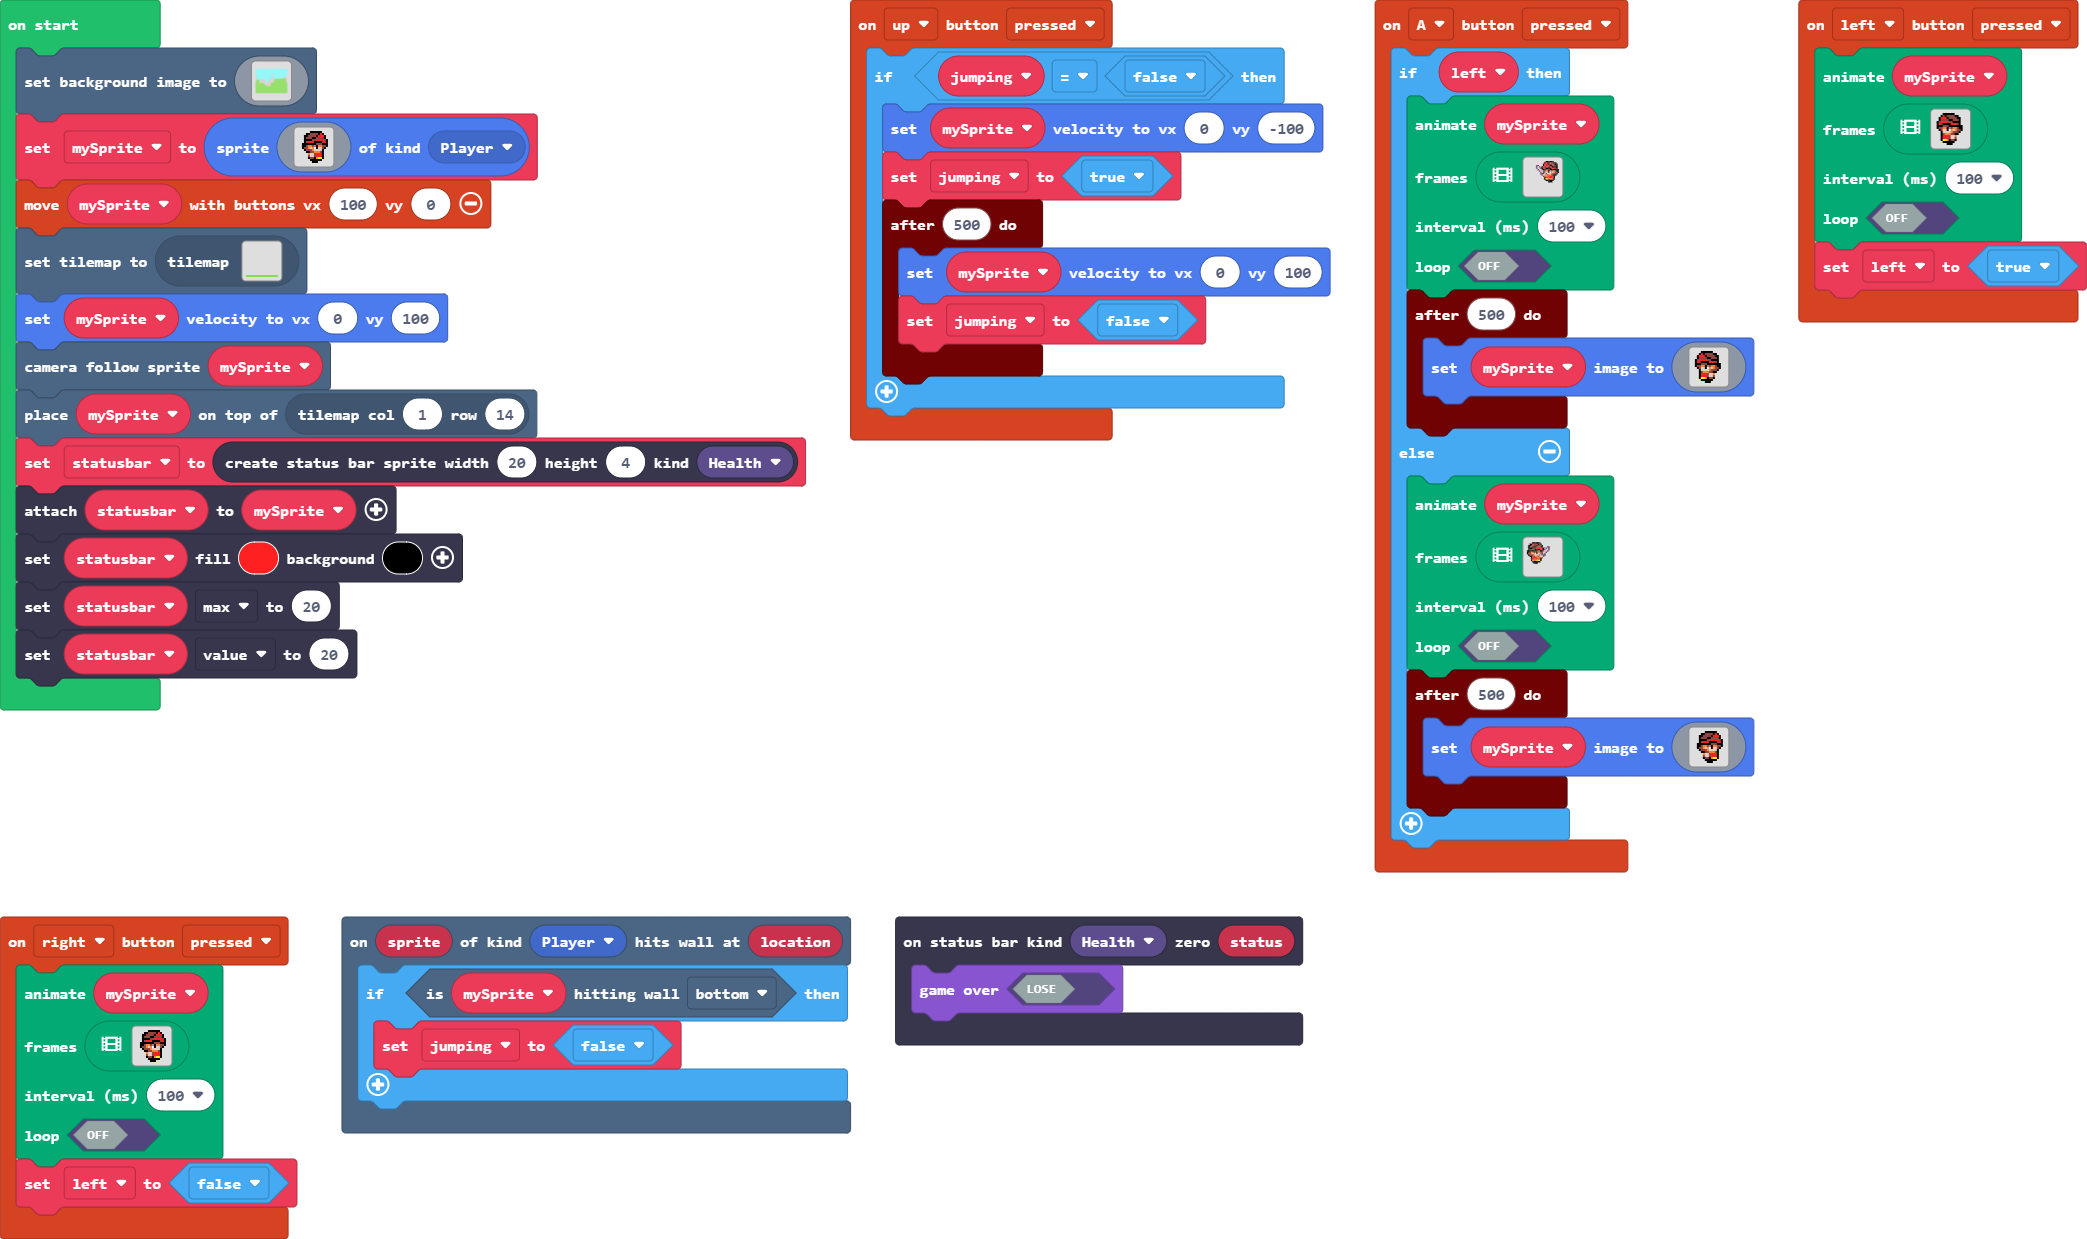
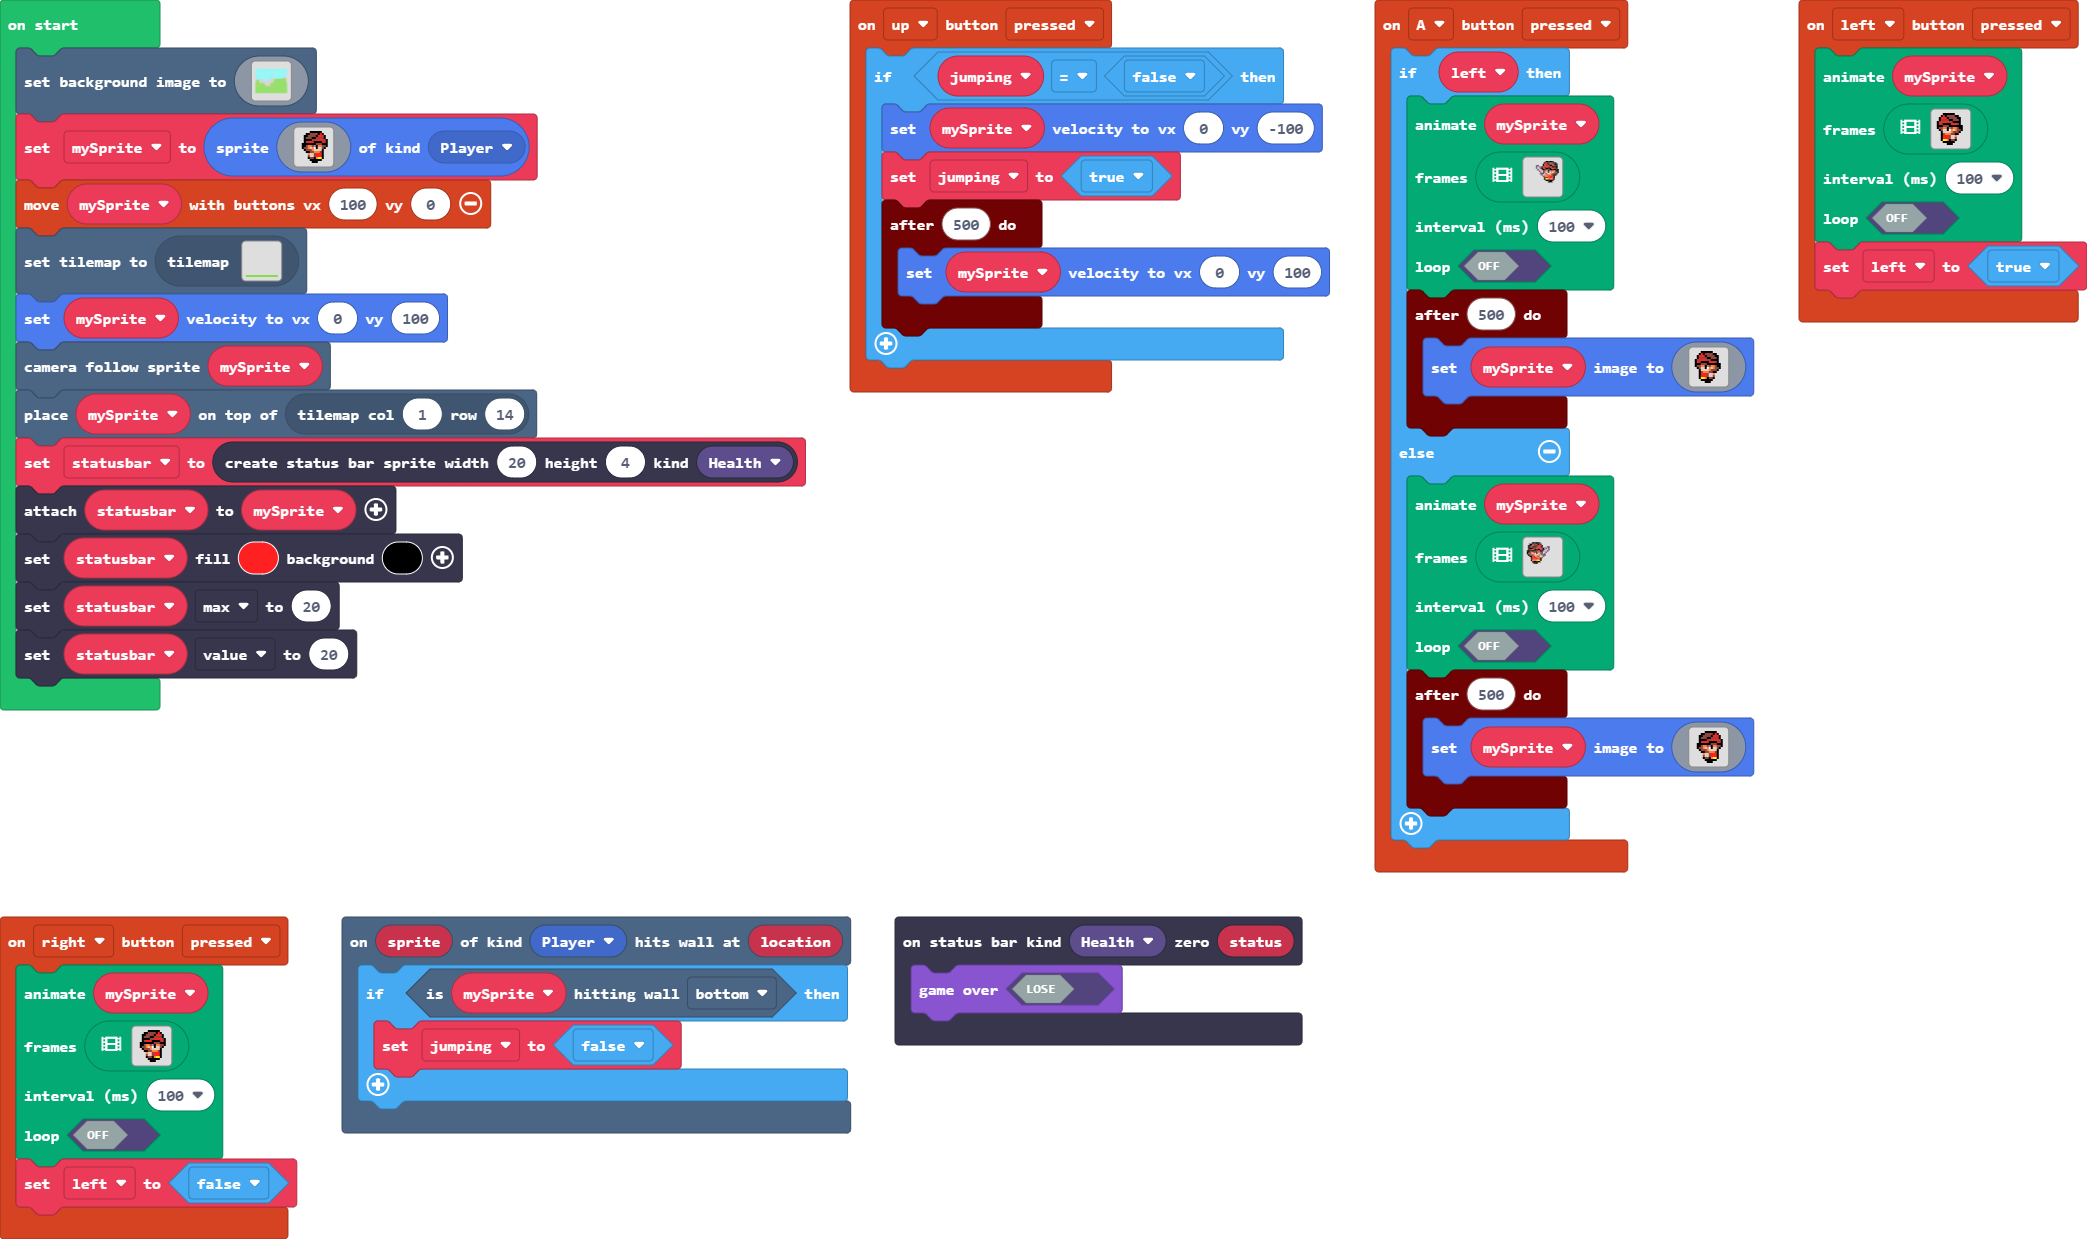
Update main.blocks, main.ts

Changed region(s): [[0.4049, 0.2147, 0.6229, 0.368], [0.4049, 0.092, 0.4672, 0.1533], [0.4049, 0.0, 0.436, 0.0307]]

diff --git a/main.ts b/main.ts
@@ -4,7 +4,6 @@ controller.up.onEvent(ControllerButtonEvent.Pressed, function () {
         jumping = true
         timer.after(500, function () {
             mySprite.setVelocity(0, 100)
-            jumping = false
         })
     }
 })
